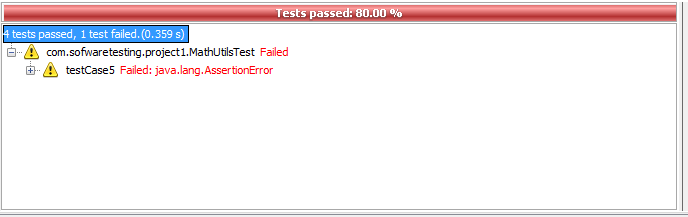
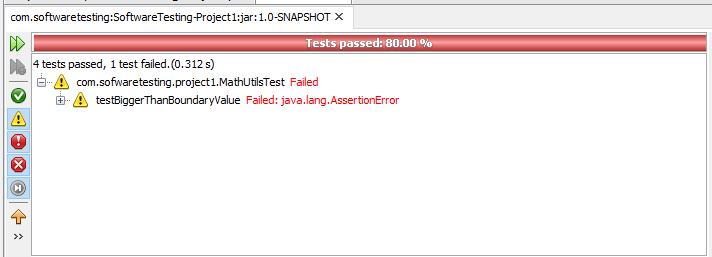
Update Readme and TestResult

Changed region(s): [[0.0, 0.0, 1.0, 0.9954]]

diff --git a/DangThanhLong/BT1/src/test/java/com/sofwaretesting/project1/MathUtilsTest.java b/DangThanhLong/BT1/src/test/java/com/sofwaretesting/project1/MathUtilsTest.java
@@ -5,9 +5,6 @@
  */
 package com.sofwaretesting.project1;
 
-import org.junit.After;
-import org.junit.AfterClass;
-import org.junit.Before;
 import org.junit.BeforeClass;
 import org.junit.Test;
 import static org.junit.Assert.*;
@@ -32,8 +29,7 @@ public class MathUtilsTest {
      * Test of factorial method, of class MathUtils.
      */
     @Test
-    public void testCase1() {
-        System.out.println("Test Case 1");
+    public void testBoundaryValue1() {
         int n = 0;
         long expResult = 1;
         long result = mathUtils.factorial(n);
@@ -41,17 +37,7 @@ public class MathUtilsTest {
     }
     
     @Test
-    public void testCase2() {
-        System.out.println("Test Case 2");
-        int n = 5;
-        long expResult = 120;
-        long result = mathUtils.factorial(n);
-        assertEquals(expResult, result);
-    }
-    
-    @Test
-    public void testCase3() {
-        System.out.println("Test Case 3");
+    public void testBoundaryValue2() {
         int n = 20;
         long expResult = 2432902008176640000L;
         long result = mathUtils.factorial(n);
@@ -59,8 +45,15 @@ public class MathUtilsTest {
     }
     
     @Test
-    public void testCase4() {
-        System.out.println("Test Case 4");
+    public void testInRangeValue() {
+        int n = 5;
+        long expResult = 120;
+        long result = mathUtils.factorial(n);
+        assertEquals(expResult, result);
+    }
+    
+    @Test
+    public void testLessThanBoundaryValue() {
         int n = -5;
         long expResult = 0;
         long result = mathUtils.factorial(n);
@@ -68,12 +61,10 @@ public class MathUtilsTest {
     }
     
     @Test
-    public void testCase5() {
-        System.out.println("Test Case 5");
+    public void testBiggerThanBoundaryValue() {
         int n = 30;
         long expResult = 2432902008176640000L;
         long result = mathUtils.factorial(n);
-        //=> Test Out range of value
         assertTrue(result > expResult);
     }
 }

diff --git a/DangThanhLong/BT1/README.md b/DangThanhLong/BT1/README.md
@@ -5,8 +5,9 @@
 		- Bài toán tính giai thừa của 1 số n cho trước
 	2. Giải pháp
 		- Tạo ra 1 phương thức factorial với tham số nhận vào là n, trả về giá trị kiểu long là kết quả n!.
+		- Nếu giá trị đầu vào là số âm phương thức factorial sẽ trả về giá trị 0.
 		- Do giới hạn của kiểu long là 9.223.372.036.854.775.807 nên khi n đủ lớn bài toán sẽ bị sai số.
-		- Giới hạn n của bài toán là 0<=n<=20
+		- Giới hạn n(giá trị đầu vào) của bài toán là 0<=n<=20		
 2. Kiểm thử
 	1. Áp dụng kiểm thử lớp tương đương cho bài toán này với các lớp tương đương
 	D1={n | n < 0}
@@ -19,6 +20,9 @@
 		+ n = 20 Giá trị kỳ vọng n! = 2432902008176640000L
 		+ n = -5 Giá trị kỳ vọng n! = 0
 		+ n = 30 Giá trị ky vọng n! > 20!(Do số quá lớn nên không thể tính cụ thể con số)
-	2. Kết quả kiểm thử
+	2. Giải thích
+	- Sử dụng Kiểm thử lớp tương đương cho bài toán này vì giá trị đầu vào là 1 số nguyên, dễ dàng tìm được giá trị biên của bài toán từ đó dễ xác định các lớp tương đương.
+	- Bài toán không có nhiều giá trị đặc biệt nên sử dụng các lớp tương đương có thể kiểm tra được hết các trường hợp của bài toán.
+	3. Kết quả kiểm thử
 	
 	![alt tag](https://github.com/longdt03/int3117-2016/blob/master/DangThanhLong/BT1/TestResult.PNG)
